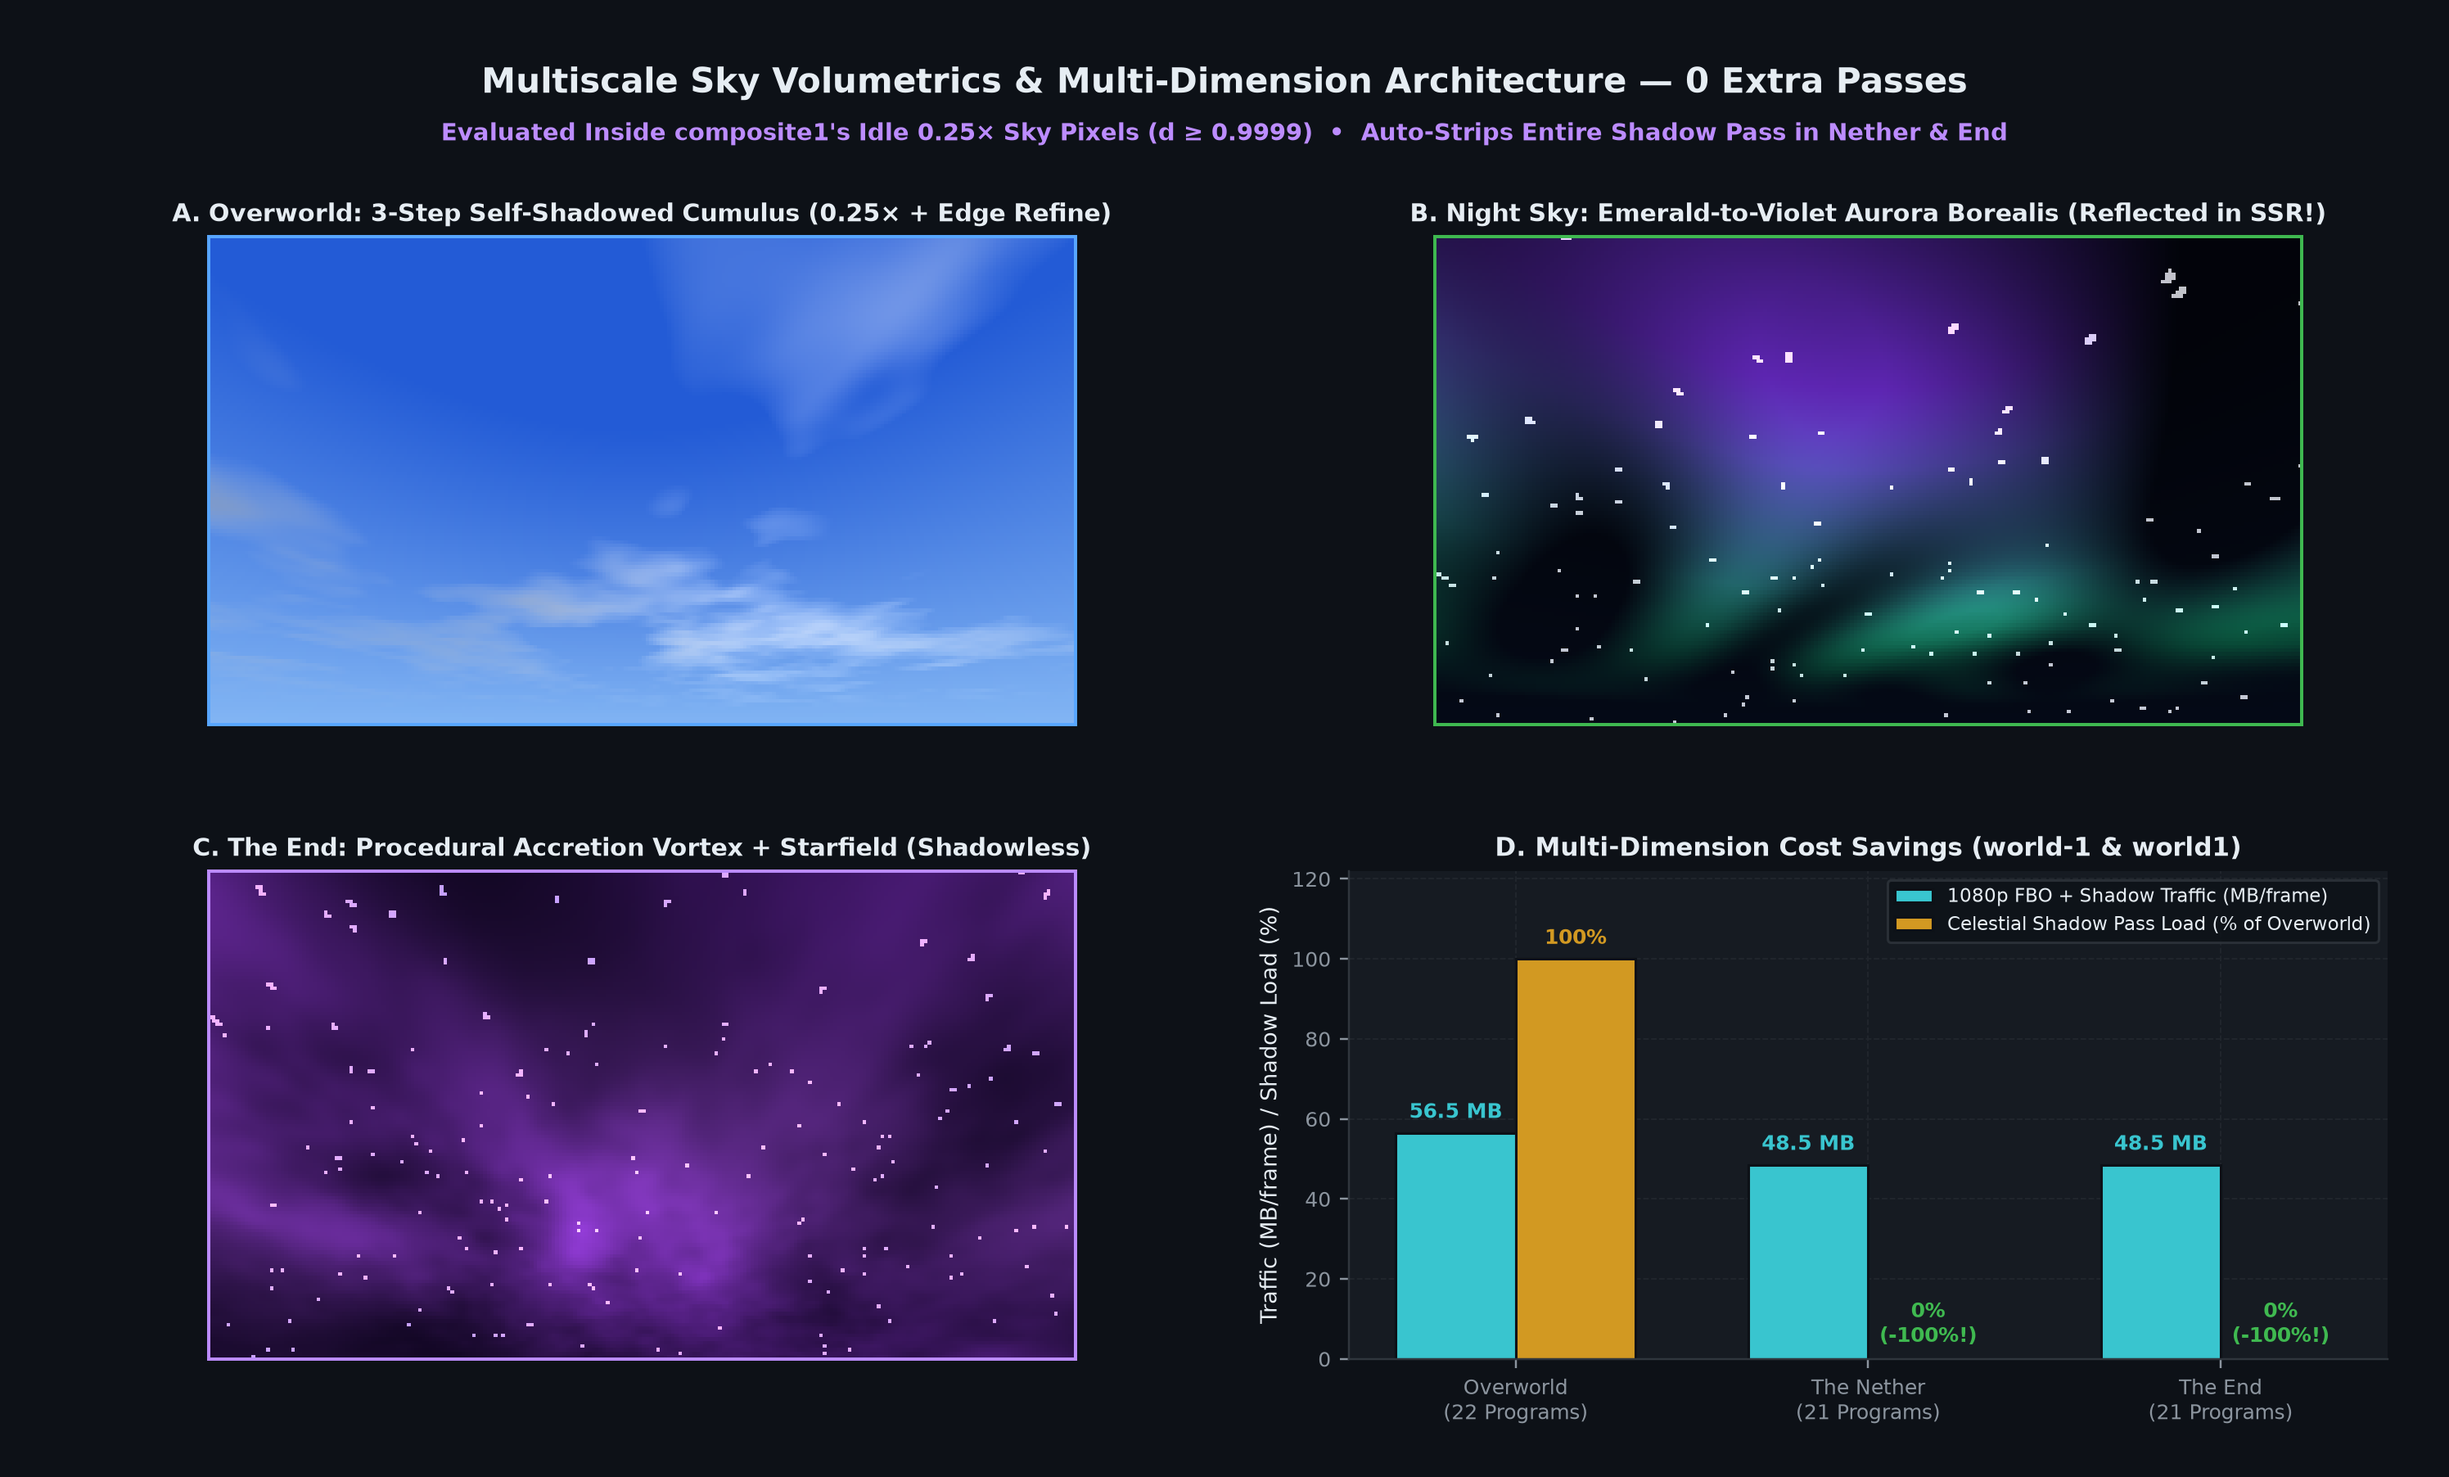
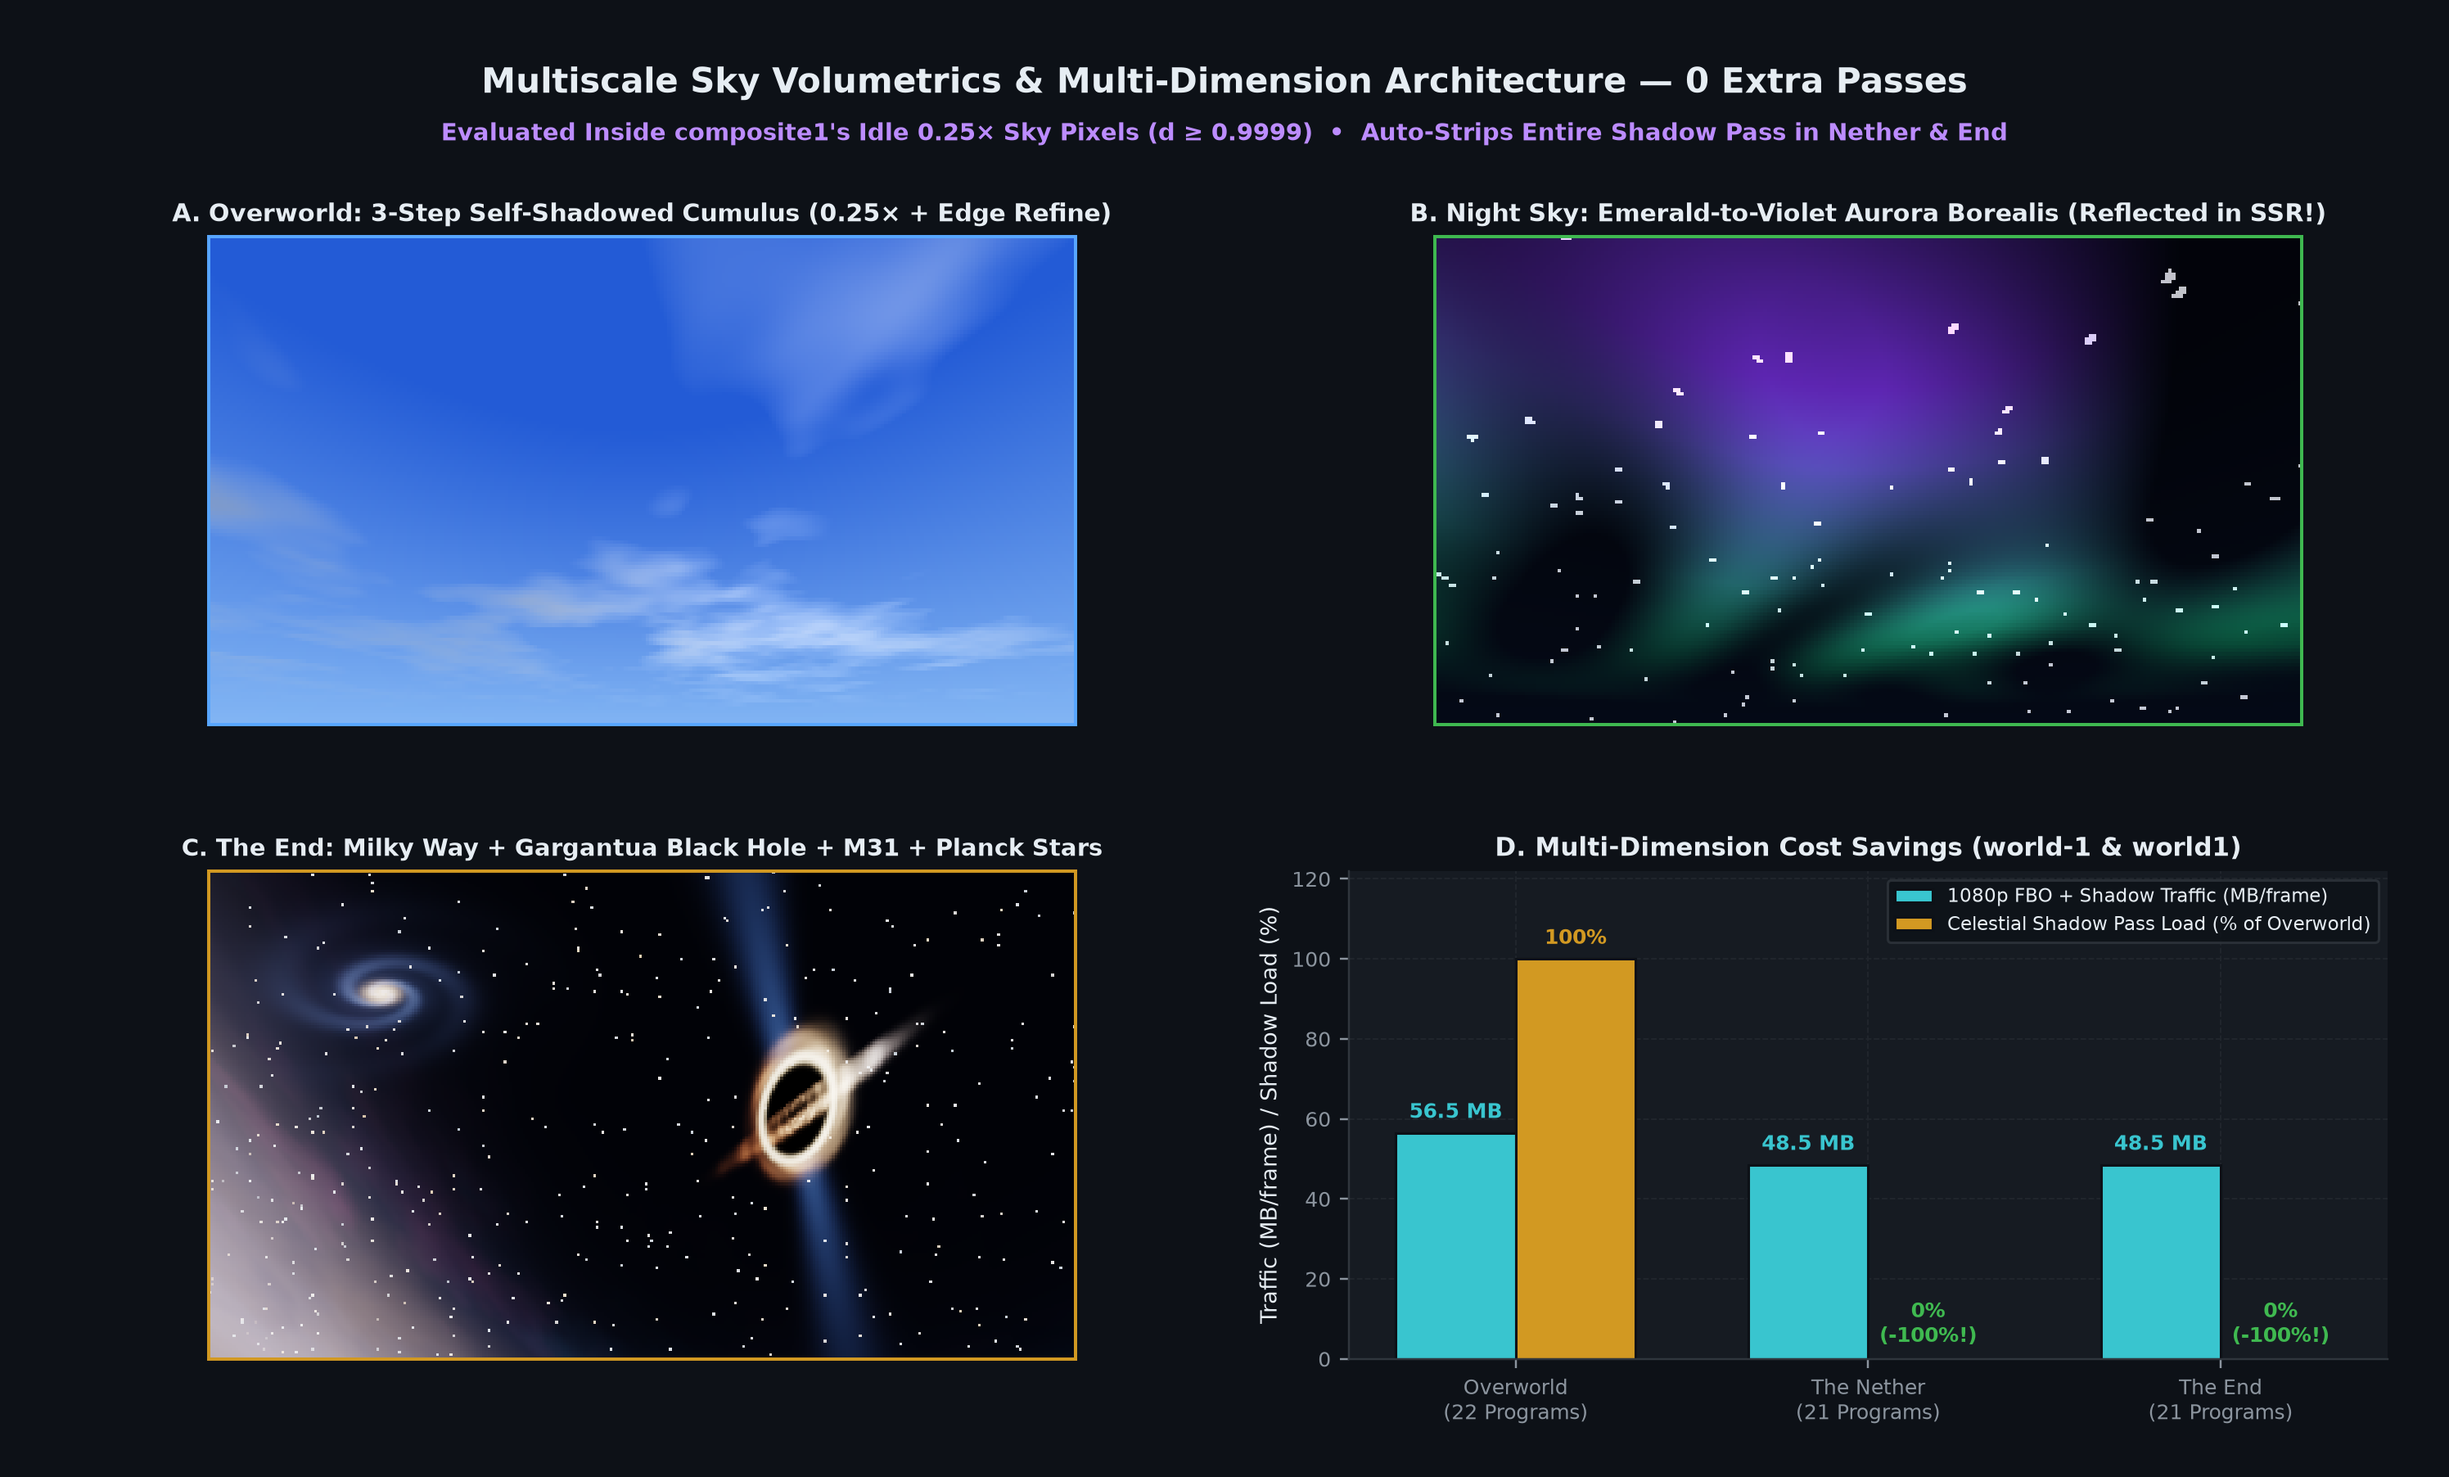
feat(v3.3.0): Astronomical End Cosmos — Milky Way, Gargantua Black Hole, M31 Galaxy & 1080p Planck Stars

Changed region(s): [[0.0622, 0.5588, 0.4662, 0.9313]]

diff --git a/tools/generate_benchmarks.py b/tools/generate_benchmarks.py
@@ -1200,21 +1200,113 @@ def generate_sky_dimensions_bench():
     for sp in axB.spines.values(): sp.set_edgecolor(ACCENT_GREEN); sp.set_linewidth(1.3)
     axB.set_title("B. Night Sky: Emerald-to-Violet Aurora Borealis (Reflected in SSR!)", color=TEXT_MAIN, fontsize=9.8, fontweight="bold", pad=6)
 
-    # --- Panel C: End Accretion Vortex ---
+    # --- Panel C: Astronomical End Cosmos (Milky Way + Gargantua Black Hole + M31 + Planck Stars) ---
     axC = fig.add_subplot(gs[1, 0])
-    ang = np.arctan2(dz, dx)
-    elev = np.abs(dy)
-    swirl = np.sin(ang * 3.0 + elev * 8.5 - 1.2) * 0.5 + 0.5
-    f_end = fbm(dx / (elev + 0.35) * 1.8 + 0.4, dz / (elev + 0.35) * 1.8 - 0.3)
-    ring = np.exp(-(((elev - 0.32) / 0.24) ** 2))
-    vortex = np.array([0.06, 0.02, 0.14]) * (1.0 - (swirl * f_end)[:, :, None]) + np.array([0.42, 0.14, 0.68]) * (swirl * f_end)[:, :, None]
-    core = np.array([0.75, 0.35, 1.0]) * (ring * f_end)[:, :, None] * 0.68
-    estars = (hash21(np.floor(dx / (elev + 0.25) * 85.0), np.floor(dz / (elev + 0.25) * 85.0)) > 0.992).astype(float)[:, :, None] * np.array([0.8, 0.7, 1.0])
-    img_end = np.clip(vortex * 0.75 + core + estars * 0.85, 0, 1)
+    # Point camera right toward the Gargantua Black Hole + tilted Milky Way + M31 sky panorama
+    H_e, W_e = 180, 320
+    ue = np.linspace(-1.35, 1.35, W_e)
+    ve = np.linspace(0.05, 1.15, H_e)
+    uue, vve = np.meshgrid(ue, ve)
+    inv_e = 1.0 / np.sqrt(uue*uue + vve*vve + 1.0)
+    edx, edy, edz = uue*inv_e, vve*inv_e, -inv_e
+
+    gal_n = np.array([0.32, 0.78, -0.54]); gal_n /= np.linalg.norm(gal_n)
+    gal_c = np.array([-0.76, 0.42, 0.49]); gal_c /= np.linalg.norm(gal_c)
+    gal_e = np.cross(gal_n, gal_c); gal_e /= np.linalg.norm(gal_e)
+    lat = edx*gal_n[0] + edy*gal_n[1] + edz*gal_n[2]
+    lon = np.arctan2(edx*gal_e[0] + edy*gal_e[1] + edz*gal_e[2],
+                     edx*gal_c[0] + edy*gal_c[1] + edz*gal_c[2])
+    gux, guy = lon * 1.45, lat * 4.2
+    nb = fbm(gux * 1.35 + 3.1, guy * 1.35 - 1.7)
+    nw = fbm(gux * 2.40 + nb * 1.4, guy * 2.40 - nb * 1.1)
+    nf = fbm(gux * 4.20 - nw * 0.9, guy * 4.20 - nb * 0.8)
+    pw = np.exp(-lat*lat * 9.5)
+    pc = np.exp(-lat*lat * 26.0)
+    bulge = np.exp(-lat*lat * 13.0 - (lon + 1.1)**2 * 1.1)
+    dust = np.clip((nw*0.7 + nf*0.3 - 0.34) / 0.38, 0, 1) * np.exp(-lat*lat * 38.0)
+    dtr = (1.0 - 0.82 * dust)[:, :, None]
+
+    end_hdr = (
+        np.array([0.0022, 0.0030, 0.0080])[None, None, :]
+        + (
+            np.array([0.07, 0.15, 0.38])[None, None, :] * (pw * (0.45 + 0.85 * nb))[:, :, None]
+            + np.array([0.98, 0.64, 0.32])[None, None, :] * (bulge * (0.55 + 0.75 * nw) * 0.65)[:, :, None]
+            + np.array([0.34, 0.42, 0.68])[None, None, :] * (pc * nf * 0.55)[:, :, None]
+            + np.array([0.70, 0.12, 0.34])[None, None, :] * (np.clip((nb*0.55 + nf*0.45 - 0.50)/0.32, 0, 1) * pw * 0.45)[:, :, None]
+            + np.array([0.06, 0.44, 0.60])[None, None, :] * (np.clip((fbm(gux*2.1+11.3, guy*2.1+5.7) - 0.54)/0.30, 0, 1) * pw * 0.38)[:, :, None]
+        ) * dtr
+    )
+
+    # Crisp Planck starfield
+    rng_s = np.random.default_rng(42)
+    star_u = rng_s.random((H_e, W_e))
+    star_t = rng_s.random((H_e, W_e))
+    s_mask = (star_u > (0.994 - 0.012 * pw)).astype(float)
+    s_mag = np.where(s_mask > 0, ((star_u - 0.980) / 0.020) ** 2, 0.0)
+    s_col = np.stack([
+        np.where(star_t < 0.5, 1.0, 1.0 - 0.35 * (star_t - 0.5) * 2.0),
+        np.where(star_t < 0.5, 0.65 + 0.32 * star_t * 2.0, 0.97 - 0.18 * (star_t - 0.5) * 2.0),
+        np.where(star_t < 0.5, 0.38 + 0.58 * star_t * 2.0, 1.0),
+    ], axis=-1)
+    end_hdr = end_hdr + s_col * (s_mag[:, :, None] * 1.45)
+
+    # Andromeda M31 Spiral Galaxy on upper-left
+    m31 = np.array([-0.52, 0.56, -0.64]); m31 /= np.linalg.norm(m31)
+    mU = np.cross(np.array([0.0, 1.0, 0.0]), m31); mU /= np.linalg.norm(mU)
+    mV = np.cross(m31, mU)
+    mpx = edx*mU[0] + edy*mU[1] + edz*mU[2]
+    mpy = edx*mV[0] + edy*mV[1] + edz*mV[2]
+    mrx = mpx*0.88 - mpy*0.47
+    mry = (mpx*0.47 + mpy*0.88) * 2.85
+    mrad = np.sqrt(mrx*mrx + mry*mry)
+    mang = np.arctan2(mry, mrx)
+    msp = 0.5 + 0.5 * np.cos(2.0 * mang - 6.8 * np.log(mrad + 0.012))
+    mdisk = np.exp(-mrad * 14.5) * (0.35 + 0.65 * msp * msp)
+    mnuc = np.exp(-mrad * mrad * 1800.0)
+    end_hdr = end_hdr + np.array([0.40, 0.55, 0.98])[None, None, :] * (mdisk * 0.55)[:, :, None] + np.array([1.2, 0.9, 0.6])[None, None, :] * (mnuc * 1.25)[:, :, None]
+
+    # Gargantua Relativistic Black Hole + Lensed Accretion Disk + Doppler Beaming on upper-right
+    bh = np.array([0.38, 0.48, -0.79]); bh /= np.linalg.norm(bh)
+    bU0 = np.cross(np.array([0.0, 1.0, 0.0]), bh); bU0 /= np.linalg.norm(bU0)
+    bV0 = np.cross(bh, bU0)
+    bp0x = edx*bU0[0] + edy*bU0[1] + edz*bU0[2]
+    bp0y = edx*bV0[0] + edy*bV0[1] + edz*bV0[2]
+    bpx = bp0x*0.961 - bp0y*0.276
+    bpy = bp0x*0.276 + bp0y*0.961
+    br = np.sqrt(bpx*bpx + bpy*bpy)
+    rH = 0.075
+    eclipse = np.clip((br - rH*0.95) / (rH*0.09), 0.0, 1.0)[:, :, None]
+    end_hdr = end_hdr * eclipse
+    bang = np.arctan2(bpy, bpx)
+    plasma = (0.58 + 0.42*np.sin(bang*3.0 - np.log(br + 0.02)*14.0)) * (0.62 + 0.38*np.cos(bang*5.0 + np.log(br + 0.02)*20.0))
+    doppler = np.clip(0.68 - bpx / (rH * 3.4), 0.26, 1.32)
+    t_d = np.clip(doppler * 0.85, 0.0, 1.0)[:, :, None]
+    dhue = np.array([0.95, 0.26, 0.06])[None, None, :] * (1.0 - t_d) + np.array([1.32, 1.04, 0.72])[None, None, :] * t_d
+    blue_s = np.clip((doppler - 1.02) / 0.30, 0.0, 1.0)[:, :, None] * 0.40
+    dhue = dhue * (1.0 - blue_s) + np.array([0.88, 0.96, 1.35])[None, None, :] * blue_s
+    eqR = np.sqrt((bpx*0.42)**2 + (bpy*3.10)**2)
+    rTaper = np.exp(-((br / (rH * 2.55)) ** 2.2))
+    eqM = np.exp(-((eqR - rH*0.72) / (rH*0.38))**2) * rTaper
+    front = eqM * np.clip((-bpy + rH*0.30)/(rH*0.44), 0, 1)
+    lensR = np.exp(-((br - rH*1.22) / (rH*0.26))**2) * np.clip((br - rH*0.96)/(rH*0.11), 0, 1)
+    lensA = lensR * (0.42 + 0.58 * np.abs(bpy / np.maximum(br, 1e-4)))
+    pring = np.exp(-((br - rH*1.06) / (rH*0.095))**2)
+    jw = np.exp(-(bpx / (rH*0.22 + np.abs(bpy)*0.11))**2)
+    jl = np.exp(-np.abs(bpy) / (rH*3.6)) * np.clip((np.abs(bpy) - rH*0.95)/(rH*0.50), 0, 1)
+    end_hdr = (
+        end_hdr
+        + dhue * ((front*1.55 + lensA*0.98) * (0.48 + 0.85*plasma) * doppler)[:, :, None]
+        + np.array([1.45, 1.22, 0.88])[None, None, :] * (pring * (0.75 + 0.55*doppler))[:, :, None]
+        + np.array([0.30, 0.55, 1.15])[None, None, :] * (jw * jl * 0.28)[:, :, None]
+    )
+    # ACES Filmic + sRGB
+    xe = np.maximum(end_hdr, 0.0) * 0.95
+    me = np.clip((xe * (2.51 * xe + 0.03)) / (xe * (2.43 * xe + 0.59) + 0.14), 0.0, 1.0)
+    img_end = np.clip(1.128 * np.sqrt(me) - 0.128 * np.sqrt(np.sqrt(me)), 0.0, 1.0)
     axC.imshow(img_end, origin="lower")
     axC.set_xticks([]); axC.set_yticks([])
-    for sp in axC.spines.values(): sp.set_edgecolor(ACCENT_PURPLE); sp.set_linewidth(1.3)
-    axC.set_title("C. The End: Procedural Accretion Vortex + Starfield (Shadowless)", color=TEXT_MAIN, fontsize=9.8, fontweight="bold", pad=6)
+    for sp in axC.spines.values(): sp.set_edgecolor(ACCENT_GOLD); sp.set_linewidth(1.3)
+    axC.set_title("C. The End: Milky Way + Gargantua Black Hole + M31 + Planck Stars", color=TEXT_MAIN, fontsize=9.5, fontweight="bold", pad=6)
 
     # --- Panel D: Multi-Dimension Pipeline Cost Savings ---
     axD = fig.add_subplot(gs[1, 1])
